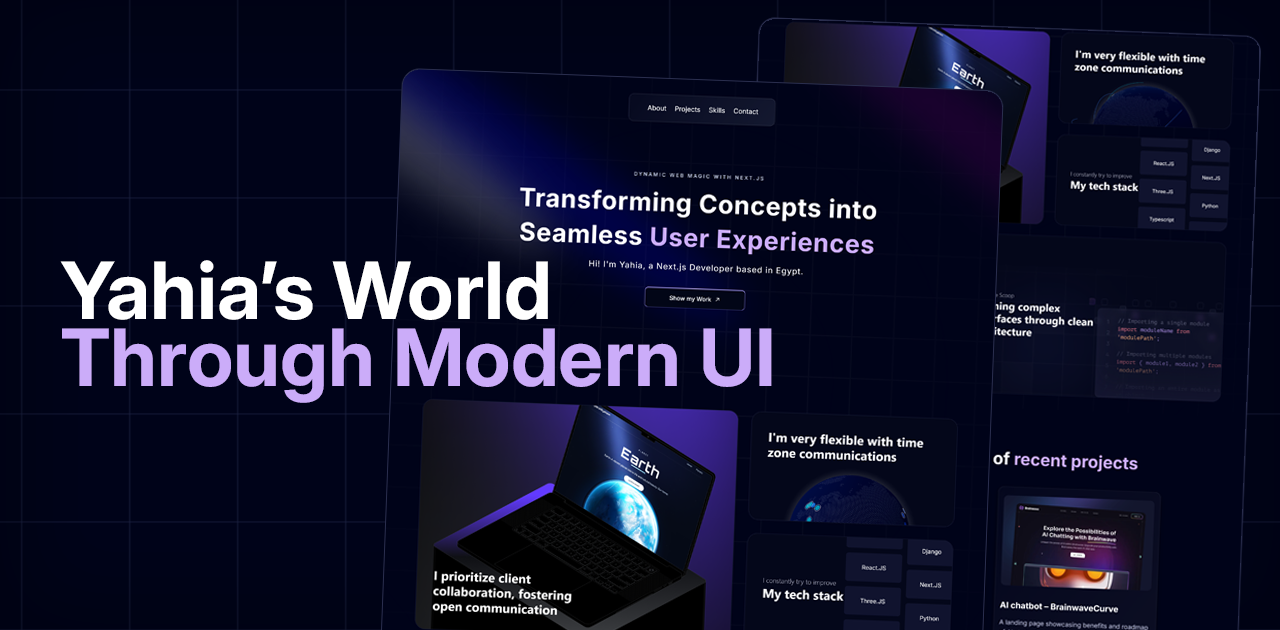
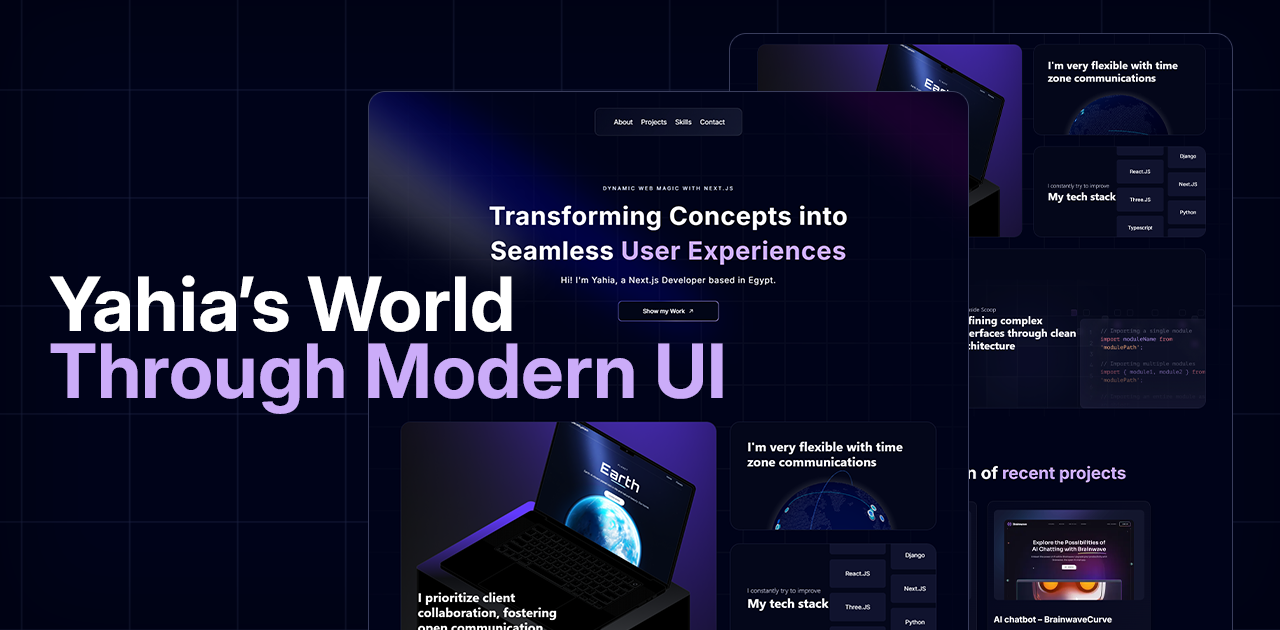
seo

diff --git a/components/Projects.tsx b/components/Projects.tsx
@@ -23,7 +23,7 @@ const Projects = () => (
                                 <img src="/bg.png" alt="bgimg" />
 
                             </div>
-                            <Image src={img} width={370} height={370} alt={img} className="z-10 max-sm:w-[300px] absolute top-[28px] rotate-[2.16deg] rounded-[10px] object-cover" />
+                            <Image src={img} width={370} height={370} alt={img} className="z-10 max-sm:w-[300px] absolute top-[28px] rotate-s[2.16deg] rounded-[10px] object-cover" />
                         </div>
                         <h1 className="font-bold text-base md:text-xl lg:text-2xl line-clamp-1">{title}</h1>
 
